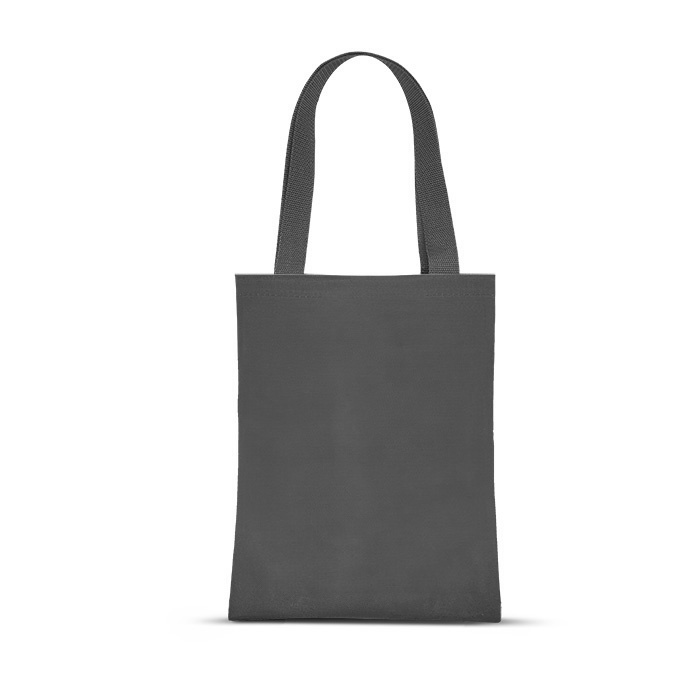
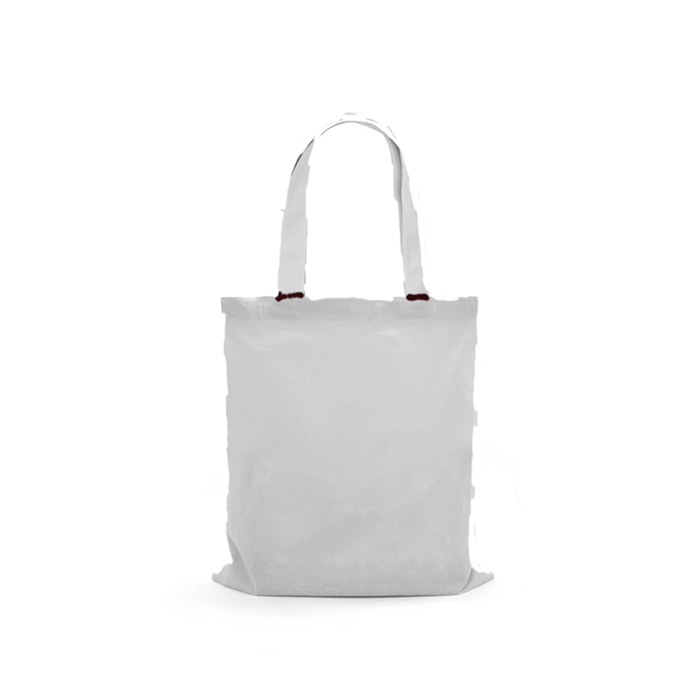
novos produtos adicionado

Changed region(s): [[0.3, 0.06, 0.75, 0.9], [0.48, 0.15, 0.54, 0.18]]

diff --git a/assets/script/object.js b/assets/script/object.js
@@ -41,6 +41,11 @@ const listProduct = [
   "bolsaPst",
   "bolsaGraci",
   "bolsaPraiaMiu",
+  "bolsaAcademia",
+  "bolsaCarteiroHb",
+  "bolsaColg",
+  "bolsaPsico",
+  "bolsaSBag",
 
   //estojo
   "estojoTriang",
@@ -56,6 +61,9 @@ const listProduct = [
   "necessaireHope",
   "necessaireVaniDuo",
   "necessaireGran",
+  "necessaireEv150907",
+  "necessaireVaniVisor",
+
 
   //termica
   "termicaJl",
@@ -79,6 +87,11 @@ const listMedidas = [
   "Lar - 20cm | Alt - 00cm | Comp - 00cm", //bolsaPst
   "Lar - 20cm | Alt - 00cm | Comp - 00cm", //bolsaGraci
   "Lar - 20cm | Alt - 00cm | Comp - 00cm", //bolsaPraiaMiu
+  "Lar - 20cm | Alt - 00cm | Comp - 00cm", //bolsaAcademia
+  "Lar - 20cm | Alt - 00cm | Comp - 00cm", //bolsaCarteiroHb
+  "Lar - 20cm | Alt - 00cm | Comp - 00cm", //bolsaColg
+  "Lar - 20cm | Alt - 00cm | Comp - 00cm", //bolsaPsico
+  "Lar - 20cm | Alt - 00cm | Comp - 00cm", //bolsaSBag
 
   //estojo
   "Lar - 30cm | Alt - 00cm | Comp - 00cm", //estojoTriang
@@ -94,6 +107,9 @@ const listMedidas = [
   "Lar - 50cm | Alt - 00cm | Comp - 00cm", //necessaireHope
   "Lar - 50cm | Alt - 00cm | Comp - 00cm", //necessaireVaniDuo
   "Lar - 50cm | Alt - 00cm | Comp - 00cm", //necessaireGran
+  "Lar - 50cm | Alt - 00cm | Comp - 00cm", //necessaireEv150907
+  "Lar - 50cm | Alt - 00cm | Comp - 00cm", //necessaireVaniVisor
+  
 
   //termica
   "Lar - 60cm | Alt - 00cm | Comp - 00cm", //termicaJl
@@ -117,6 +133,11 @@ const listInfoProduct = [
   "esta é outra bolsa", //bolsaPst
   "esta é outra bolsa", //bolsaGraci
   "esta é outra bolsa", //bolsaPraiaMiu
+  "esta é outra bolsa", //bolsaAcademia
+  "esta é outra bolsa", //bolsaCarteiroHb
+  "esta é outra bolsa", //bolsaColg
+  "esta é outra bolsa", //bolsaPsico
+  "esta é outra bolsa", //bolsaSBag
   
   //estojo
   "este é um estojo", //estojoTriang
@@ -132,6 +153,8 @@ const listInfoProduct = [
   "essa necessaire", //necessaireHope
   "essa necessaire", //necessaireVaniDuo
   "essa necessaire", //necessaireGran
+  "essa necessaire", //necessaireEv150907
+  "essa necessaire", //necessaireVaniVisor
 
   //termica
   "e essa é uma térmica", //termicaJl
@@ -184,6 +207,12 @@ for (let i = 0; i < listProduct.length; i++) {
     nome === "bolsaPst" ||
     nome === "bolsaTripCongresso" ||
     nome === "bolsaGraci" ||
+    nome === "bolsaAcademia" ||
+    nome === "bolsaCarteiroHb" ||
+    nome === "bolsaColg" ||
+    nome === "bolsaPsico" ||
+    nome === "bolsaPst" ||
+    nome === "bolsaSBag" ||
     
     //estojo
     nome === "estojoTriang" ||
@@ -199,6 +228,8 @@ for (let i = 0; i < listProduct.length; i++) {
     nome === "necessaireEvBolso" ||
     nome === "necessaireHope" ||
     nome === "necessairePs" ||
+    nome === "necessaireEv150907" ||
+    nome === "necessaireVaniVisor" ||
 
     //termica
     nome === "termicaJl" ||
@@ -222,6 +253,12 @@ for (let i = 0; i < listProduct.length; i++) {
     nome === "bolsaPst" ||
     nome === "bolsaGraci" ||
     nome === "bolsaPraiaMiu" ||
+    nome === "bolsaAcademia" ||
+    nome === "bolsaCarteiroHb" ||
+    nome === "bolsaColg" ||
+    nome === "bolsaPsico" ||
+    nome === "bolsaPst" ||
+    nome === "bolsaSBag" ||
     
 
     //diversos
@@ -246,6 +283,10 @@ for (let i = 0; i < listProduct.length; i++) {
     nome === "bolsaTripCongresso" ||
     nome === "miniBagVani" ||
     nome === "necessaireEvBolso" ||
+    nome === "bolsaAcademia" ||
+    nome === "bolsaColg" ||
+    nome === "bolsaPsico" ||
+    nome === "bolsaSBag" ||
 
     nome === "termicaJl" ||
     nome === "termicaGer" ||
@@ -258,13 +299,21 @@ for (let i = 0; i < listProduct.length; i++) {
     nome === "necessairePs" ||
     nome === "necessaireVaniDuo" ||
     nome === "necessaireHope" ||
-    nome === "necessaireGran"
+    nome === "necessaireGran" ||
+    nome === "necessaireEv150907" ||
+    nome === "necessaireVaniVisor"
   ) {
     ziper = `assets/img/${nome}/ziper.png`;
   }
 
   // adiciona bolso aos aos produtos relativos
   if (
+    //bolsa
+    nome === "bolsaCarteiroHb" ||
+    nome === "bolsaColg" ||
+    nome === "bolsaPsico" ||
+    nome === "bolsaSBag" ||
+
     //necessaire
     nome === "necessaireEvBolso" ||
     nome === "necessaireCn" ||
@@ -278,13 +327,19 @@ for (let i = 0; i < listProduct.length; i++) {
 
   // adiciona vivo aos aos produtos relativos
   if (
+    //bolsa
+    nome === "bolsaAcademia" ||
+    nome === "bolsaCarteiroHb" ||
+
+    //termica
     nome === "termicaJl" ||
     nome === "termicaMiu" ||
 
-
+    //necessaire
     nome === "necessaireCn" ||
     nome === "necessairePs" ||
 
+    //diversos
     nome === "organizadorWish"
   ) {
     vivo = `assets/img/${nome}/vivo.png`;
@@ -305,6 +360,8 @@ for (let i = 0; i < listProduct.length; i++) {
     nome === "mochilaAdvGrande" ||
     nome === "necessaireVaniDuo" ||
     nome === "bolsaPraiaMiu" ||
+    nome === "bolsaColg" ||
+ 
 
     nome === "termicaAeTri" ||
     nome === "termicaGer"
@@ -316,7 +373,10 @@ for (let i = 0; i < listProduct.length; i++) {
   // adiciona base aos aos produtos relativos
   if (
     nome === "bolsaPraiaDuo" ||
-    nome === "necessaireVaniDuo"
+
+    //necessaire
+    nome === "necessaireVaniDuo" ||
+    nome === "necessaireVaniVisor"
   ) {
     base = `assets/img/${nome}/base.png`;
   }
@@ -326,6 +386,8 @@ for (let i = 0; i < listProduct.length; i++) {
     nome === "mochilaAdvGrande" ||
 
     nome === "necessaireGran" ||
+    nome === "necessaireVaniVisor" ||
+
 
     nome === "organizadorWish"
 

diff --git a/main.css b/main.css
@@ -314,13 +314,17 @@ button, input {
 }
 .container-main .container-mockup {
   display: flex;
+  width: 100%;
   align-items: center;
   justify-content: center;
-  flex-wrap: wrap;
   gap: 20px;
 }
 .container-main .container-mockup .list-products {
   display: flex;
+  flex-wrap: wrap;
+  width: 100%;
+  align-items: center;
+  justify-content: center;
   animation-name: entrance-animation;
   animation-duration: 1s;
   gap: 30px;

diff --git a/assets/style/_container-main.scss b/assets/style/_container-main.scss
@@ -9,12 +9,17 @@
 
   .container-mockup {
     display: flex;
+    width: 100%;
     align-items: center;
     justify-content: center;
-    flex-wrap: wrap;
     gap: 20px;
+
     .list-products {
       display: flex;
+      flex-wrap: wrap;
+      width: 100%;
+      align-items: center;
+      justify-content: center;
 
       animation-name: entrance-animation;
       animation-duration: 1s;
